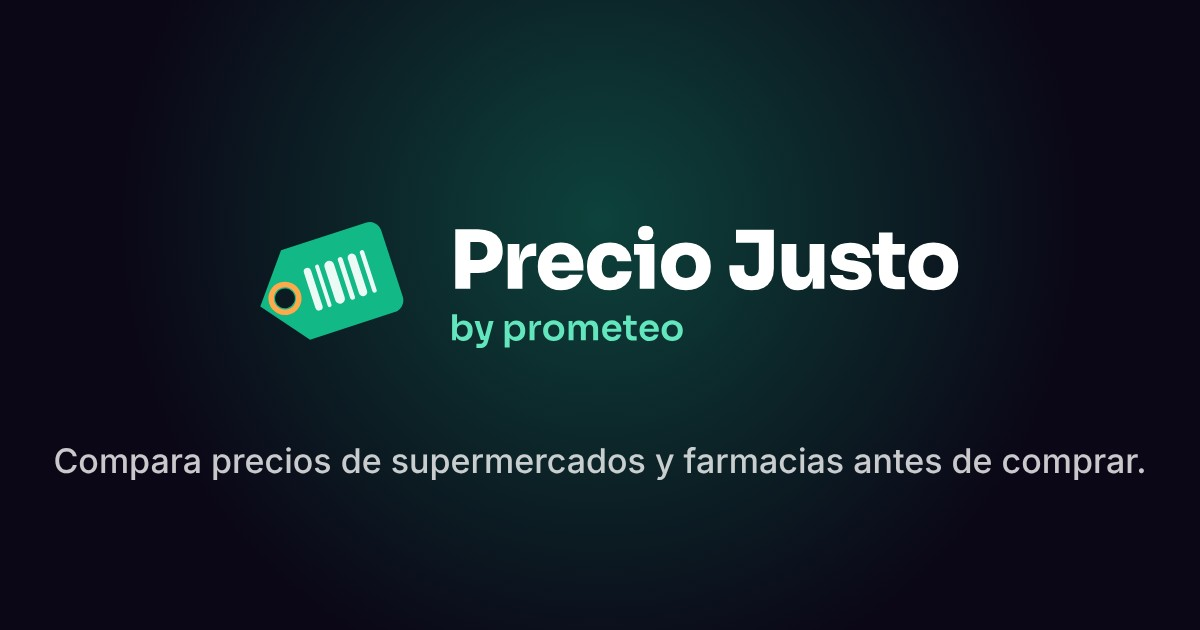
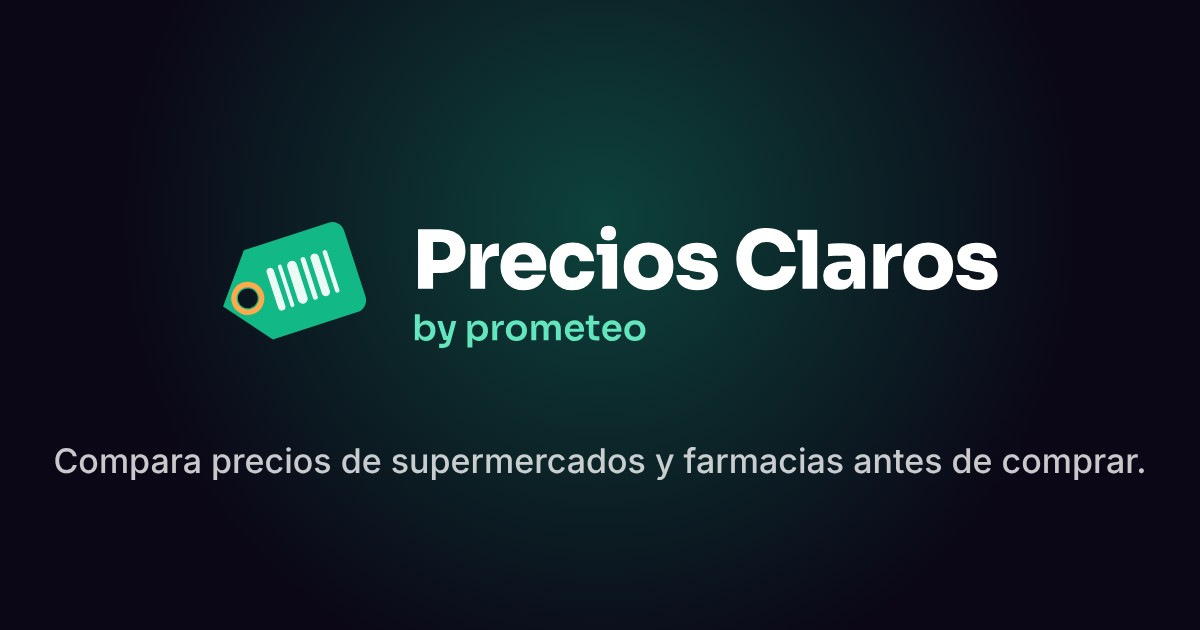
Precios Claros y optimización para celular

Changed region(s): [[0.185, 0.3317, 0.8325, 0.573]]

diff --git a/src/styles/global.css b/src/styles/global.css
@@ -61,7 +61,7 @@
   --purple-soft: #FFA94D; --purple-pale: #FFD3A8; --purple-light: #FFEDE2; --accent-rgb: 217 72 15;
   --ink: #1F0C04; --ink-2: #4A1C08; --tint: #FFF6EF;
 }
-/* Precio Justo: verde */
+/* Precios Claros: verde */
 [data-theme='precio'] {
   --purple: #0B8A65; --purple-mid: #12B886; --purple-dark: #087556; --purple-deep: #055C43;
   --purple-soft: #63E6BE; --purple-pale: #B2F2DA; --purple-light: #DDF5EC; --accent-rgb: 11 138 101;
@@ -148,6 +148,20 @@ ul { margin: 0; padding: 0; }
 .grid-2 { grid-template-columns: repeat(auto-fit, minmax(min(100%, 420px), 1fr)); }
 .grid-3 { grid-template-columns: repeat(auto-fit, minmax(min(100%, 300px), 1fr)); }
 .grid-4 { grid-template-columns: repeat(auto-fit, minmax(min(100%, 240px), 1fr)); }
+
+/* ── Celular: menos alto y más deslizable ── */
+.swipe-hint { display: none; }
+@media (max-width: 640px) {
+  .section { padding: 60px 0; }
+  .section-head { margin-bottom: 30px; }
+  .section-lead { font-size: 16px; }
+  /* Listas de tarjetas que en celular se deslizan de lado */
+  .m-swipe { display: flex !important; overflow-x: auto; scroll-snap-type: x mandatory; gap: 14px; margin: 0 -24px; padding: 8px 24px 16px; scroll-padding: 0 24px; scrollbar-width: none; -webkit-overflow-scrolling: touch; }
+  .m-swipe::-webkit-scrollbar { display: none; }
+  .m-swipe > * { flex: 0 0 84%; max-width: 360px; scroll-snap-align: start; }
+  .swipe-hint { display: flex; align-items: center; justify-content: center; gap: 6px; margin-top: 4px; font-size: 13px; font-weight: 600; color: var(--gray-mid); }
+  .section-dark .swipe-hint { color: rgba(255,255,255,.6); }
+}
 
 .card {
   background: var(--white); border: 1px solid rgb(var(--accent-rgb) / .12);

diff --git a/src/data/site.ts b/src/data/site.ts
@@ -24,8 +24,8 @@ export const site = {
   // URL del Apps Script que guarda cada contacto en Google Sheets (ver tools/leads/README.md).
   // Vacío = los formularios solo abren WhatsApp con el mensaje listo.
   formEndpoint: '',
-  // Plataforma pública de Precio Justo
-  precioJustoUrl: 'https://datacrazyy.github.io/price-intelligence-backend/',
+  // Plataforma pública de Precios Claros
+  preciosClarosUrl: 'https://datacrazyy.github.io/price-intelligence-backend/',
   // Archivo de la propuesta comercial dentro de /public
   // Tiempo de respuesta que prometemos en el formulario de contacto
   responseTime: 'durante el día',
@@ -49,7 +49,7 @@ export const stats = [
   { count: 2, prefix: '', label: 'Universidades aliadas', academy: true },
 ];
 
-// Líneas de Prometeo (Precio Justo va aparte en el menú, como proyecto)
+// Líneas de Prometeo (Precios Claros va aparte en el menú, como proyecto)
 export const nav = [
   { key: 'consulting', href: 'consulting/', label: 'Consulting' },
   { key: 'academy', href: 'academy/', label: 'Academy' },

diff --git a/src/pages/sitemap.xml.ts b/src/pages/sitemap.xml.ts
@@ -1,6 +1,6 @@
 import type { APIRoute } from 'astro';
 // Mapa del sitio para Google (se genera con la URL de SITE_URL).
-const pages = ['', 'consulting/', 'academy/', 'talks/', 'precio-justo/', 'nosotros/', 'contacto/'];
+const pages = ['', 'consulting/', 'academy/', 'talks/', 'precios-claros/', 'nosotros/', 'contacto/'];
 export const GET: APIRoute = ({ site }) => {
   const base = new URL(import.meta.env.BASE_URL, site);
   const urls = pages.map((p) => `<url><loc>${new URL(p, base).href}</loc></url>`).join('');

diff --git a/src/lib/brandIcons.ts b/src/lib/brandIcons.ts
@@ -59,5 +59,5 @@ export const brandNames: Record<Brand, { word?: string; label: string }> = {
   consulting: { word: 'consulting', label: 'Prometeo Consulting' },
   academy: { word: 'academy', label: 'Prometeo Academy' },
   talks: { word: 'talks', label: 'Prometeo Talks' },
-  precio: { label: 'Precio Justo by prometeo' },
+  precio: { label: 'Precios Claros by prometeo' },
 };

diff --git a/tools/brand/make_brand.py b/tools/brand/make_brand.py
@@ -79,7 +79,7 @@ def icon(brand, mode='color'):
         hs = [10, 20, 28, 17, 24, 11]
         out += [rr(13.5 + i * 6.6, 27.5 - h / 2, 4.4, h, col(cols[i]), op(i % 3)) for i, h in enumerate(hs)]
         out.append(f'<circle cx="52" cy="14" r="3" fill="{spark}"/>')
-    elif brand == 'precio-justo':
+    elif brand == 'precios-claros':
         tag = 'M4 32 L19 13 H55 a5 5 0 0 1 5 5 V46 a5 5 0 0 1 -5 5 H19 Z M14.5 32 m-4 0 a4 4 0 1 0 8 0 a4 4 0 1 0 -8 0 Z'
         bars = [(25, 23, 3, 18), (30, 23, 1.6, 18), (33.6, 23, 4, 18), (39.6, 23, 2, 18), (43.6, 23, 3.4, 18), (49, 23, 1.8, 18)]
         g = [f'<path d="{tag}" fill="{col("#12B886")}" fill-rule="evenodd"/>']
@@ -94,16 +94,16 @@ BRANDS = {
     'consulting':   dict(word='consulting', acc_l='#7C4DFF', acc_d='#B39DFF'),
     'academy':      dict(word='academy',    acc_l='#3B5BDB', acc_d='#91A7FF'),
     'talks':        dict(word='talks',      acc_l='#E8590C', acc_d='#FFA94D'),
-    'precio-justo': dict(word=None,         acc_l='#0B8A65', acc_d='#63E6BE'),
+    'precios-claros': dict(word=None,         acc_l='#0B8A65', acc_d='#63E6BE'),
 }
-BG = {'prometeo': '#7C4DFF', 'consulting': '#5E35B1', 'academy': '#2F4AC0', 'talks': '#E8590C', 'precio-justo': '#0B8A65'}
+BG = {'prometeo': '#7C4DFF', 'consulting': '#5E35B1', 'academy': '#2F4AC0', 'talks': '#E8590C', 'precios-claros': '#0B8A65'}
 
 def wordmark(brand, dark, size):
     """Devuelve (lista de paths, ancho, alto de referencia) con la línea base en y=0."""
     b = BRANDS[brand]; ink = '#FFFFFF' if dark else INK
-    if brand == 'precio-justo':
+    if brand == 'precios-claros':
         acc = b['acc_d'] if dark else b['acc_l']
-        d1, w1 = text_path('Precio Justo', 800, size, track=-size * .02)
+        d1, w1 = text_path('Precios Claros', 800, size, track=-size * .02)
         s2 = size * .44; d2, w2 = text_path('by prometeo', 600, s2, base=s2 * 1.45)
         return [(d1, ink), (d2, acc)], max(w1, w2), 'pj'
     d1, w1 = text_path('prometeo', 700, size, track=-size * .02)
@@ -123,7 +123,7 @@ def paths(parts, tx, ty): return f'<g transform="translate({tx:.2f} {ty:.2f})">'
 def place_icon(brand, mode, x, y, size): return f'<g transform="translate({x:.2f} {y:.2f}) scale({size / 64:.4f})">{icon(brand, mode)}</g>'
 
 def horizontal(brand, dark):
-    H = 200; size = 104 if brand != 'precio-justo' else 92
+    H = 200; size = 104 if brand != 'precios-claros' else 92
     parts, tw, kind = wordmark(brand, dark, size)
     gap = H * .2; pad = 8
     if kind == 'one': base = H / 2 + xheight(700, size) / 2
@@ -132,13 +132,13 @@ def horizontal(brand, dark):
     return svg(W, H + 2 * pad, place_icon(brand, 'white' if False else 'color', pad, pad, H) + paths(parts, pad + H + gap, pad + base))
 
 def vertical(brand, dark):
-    I = 300; size = (96 if brand == 'prometeo' else 70) if brand != 'precio-justo' else 80
+    I = 300; size = (96 if brand == 'prometeo' else 70) if brand != 'precios-claros' else 80
     parts, tw, kind = wordmark(brand, dark, size)
     W = max(I, tw) + 40; top = 20
     base = top + I + 46 + (capheight(800, size) if kind == 'pj' else xheight(700, size))
     Hh = base + (size * .44 * 1.45 + 20 if kind == 'pj' else size * .32) + 20
     if kind == 'pj':  # centrar cada línea
-        d1, w1 = text_path('Precio Justo', 800, size, track=-size * .02); s2 = size * .44
+        d1, w1 = text_path('Precios Claros', 800, size, track=-size * .02); s2 = size * .44
         d2, w2 = text_path('by prometeo', 600, s2, x0=(w1 - text_w('by prometeo', 600, s2)) / 2, base=s2 * 1.45)
         parts = [(d1, parts[0][1]), (d2, parts[1][1])]; tw = w1
     return svg(W, Hh, place_icon(brand, 'color', (W - I) / 2, top, I) + paths(parts, (W - tw) / 2, base))
@@ -177,7 +177,7 @@ for b in BRANDS:
         ('vertical-fondo-claro', vertical(b, False), 3), ('vertical-fondo-oscuro', vertical(b, True), 3)]:
         p = os.path.join(d, name + '.svg'); write(p, content); jobs.append((p, p[:-4] + '.png', sc))
     p = os.path.join(OUT, 'instagram', f'perfil-{b}.svg'); write(p, avatar(b)); jobs.append((p, p[:-4] + '.png', 1))
-for b, label in [('prometeo', 'Nosotros'), ('consulting', 'Consulting'), ('academy', 'Academy'), ('talks', 'Talks'), ('precio-justo', 'Precio Justo')]:
+for b, label in [('prometeo', 'Nosotros'), ('consulting', 'Consulting'), ('academy', 'Academy'), ('talks', 'Talks'), ('precios-claros', 'Precios Claros')]:
     p = os.path.join(OUT, 'instagram', f'destacada-{b}.svg'); write(p, highlight(b, label)); jobs.append((p, p[:-4] + '.png', 1))
 
 from playwright.sync_api import sync_playwright

diff --git a/tools/brand/make_og.py b/tools/brand/make_og.py
@@ -9,7 +9,7 @@ PAGES = [  # tema de la página, carpeta del logo, color del brillo, frase
   ('consulting', 'consulting', '#7C4DFF', 'Business Intelligence y Power BI para tu empresa.'),
   ('academy', 'academy', '#3B5BDB', 'Cursos de Power BI en vivo y virtuales.'),
   ('talks', 'talks', '#E8590C', 'Conferencias y videos sobre datos e IA · Próximamente'),
-  ('precio', 'precio-justo', '#12B886', 'Compara precios de supermercados y farmacias antes de comprar.'),
+  ('precio', 'precios-claros', '#12B886', 'Compara precios de supermercados y farmacias antes de comprar.'),
 ]
 FONT = os.path.join(ROOT, 'node_modules/@fontsource/inter/files/inter-latin-500-normal.woff2')
 for theme, folder, _, _ in PAGES:  # favicons

diff --git a/README.md b/README.md
@@ -7,9 +7,9 @@ Sitio oficial de **Prometeo**, la marca que agrupa:
 | Prometeo Consulting | `/consulting` | Asesorías de Business Intelligence y Power BI, con modalidades, propuesta comercial y cronograma |
 | Prometeo Academy | `/academy` | Cursos y capacitaciones (Student, Enterprise, abiertos) |
 | Prometeo Talks | `/talks` | Conferencias, eventos y videos (próximamente, con lista de espera) |
-| **Precio Justo by Prometeo** | `/precio-justo` | Proyecto aparte: comparador y monitoreo de precios con web scraping |
+| **Precios Claros by Prometeo** | `/precios-claros` | Proyecto aparte: comparador y monitoreo de precios con web scraping |
 
-Cada página tiene su color: Prometeo y Consulting en violeta, Academy en azul, Talks en naranja y Precio Justo en verde (`data-theme` en `src/styles/global.css`).
+Cada página tiene su color: Prometeo y Consulting en violeta, Academy en azul, Talks en naranja y Precios Claros en verde (`data-theme` en `src/styles/global.css`).
 
 ## Stack
 
@@ -47,7 +47,7 @@ python tools/propuesta/make_proposal.py public/Propuesta_Comercial_Prometeo_Cons
 
 ## Marca
 
-Los logos de las cinco marcas (Prometeo, Consulting, Academy, Talks y Precio Justo) están en `public/brand/<marca>/` en SVG y PNG, con versiones para fondo claro y oscuro, y las piezas de Instagram en `public/brand/instagram/`. Cada página usa el logo, el favicon y la imagen para compartir de su línea. Para regenerarlos:
+Los logos de las cinco marcas (Prometeo, Consulting, Academy, Talks y Precios Claros) están en `public/brand/<marca>/` en SVG y PNG, con versiones para fondo claro y oscuro, y las piezas de Instagram en `public/brand/instagram/`. Cada página usa el logo, el favicon y la imagen para compartir de su línea. Para regenerarlos:
 
 ```bash
 pip install fonttools brotli playwright
